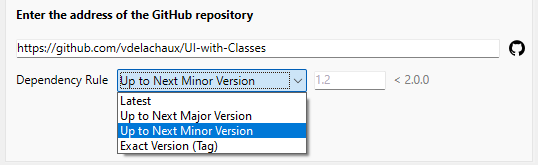
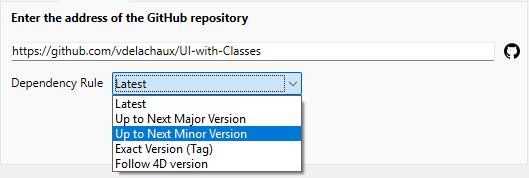
first draft

diff --git a/docs/Project/components.md b/docs/Project/components.md
@@ -239,7 +239,13 @@ You declare a component stored on GitHub in the [**dependencies.json** file](#de
 
 #### Tags and versions
 
-When a release is created in GitHub, it is associated to a **tag** and a **version**. The Dependency manager uses these information to handle automatic availability of components.  
+When a release is created in GitHub, it is associated to a **tag** and a **version**. The Dependency manager uses these information to handle automatic availability of components.
+
+:::note
+
+If you select the [**Follow 4D Version**](#defining-a-github-dependency-version-range) dependency rule, you need to use a [specific naming convention for the tags](#naming-conventions-for-4d-version-tags).   
+
+:::
 
 - **Tags** are texts that uniquely reference a release. In the [**dependencies.json** file](#dependenciesjson) and [**environment4d.json**](#environment4djson) files, you can indicate the release tag you want to use in your project. For example :
 
@@ -287,6 +293,14 @@ If you do not specify a tag or a version, 4D automatically retrieves the "latest
 
 
 The Dependency manager checks periodically if component updates are available on Github. If a new version is available for a component, an update indicator is then displayed for the component in the dependency list, [depending on your settings](#defining-a-github-dependency-version-range). 
+
+
+#### Naming conventions for 4D version tags
+
+When you select the [**Follow 4D Version**](#defining-a-github-dependency-version-range) dependency rule, the tags for component releases on the Github repository must comply with specific conventions. 
+
+- **LTS versions**: `x.y.p` pattern, where `x.y` corresponds to the main 4D version to follow and `p` (optional) can be used for patch versions or additional updates. For example, "20.4" will be used by the Dependency manager for 4D versions 20.4 and next (if no higher tag version is created). The Dependency manager will resolve the tag to "the latest 20.x" if available, and notify the user if such a version does not exist.
+- **R-Release versions**: `xRy` pattern, where `x and y` corresponds to the main 4D R-release version to follow. For example, "20R9" will be used by the Dependency manager for 4D versions 20R9 and next (if no higher tag version is created). The Dependency manager will resolve the tag to "the latest version below 20R10" if available, and notify the user if such a version does not exist.
 
 
 
@@ -480,6 +494,7 @@ You can define the [tag or version](#tags-and-versions) option for a dependency:
 - **Up to Next Major Version**: Define a [semantic version range](#tags-and-versions) to restrict updates to the next major version.
 - **Up to Next Minor Version**: Similarly, restrict updates to the next minor version.
 - **Exact Version (Tag)**: Select or manually enter a [specific tag](#tags-and-versions) from the available list.
+- **Follow 4D Version**: Download the latest component release that is compatible with the current 4D version. In this case, the release tag must follow a [specific naming convention](#naming-conventions-for-4d-version-tags). 
 
 The current GitHub dependency version is displayed on the right side of the dependency item:
 
